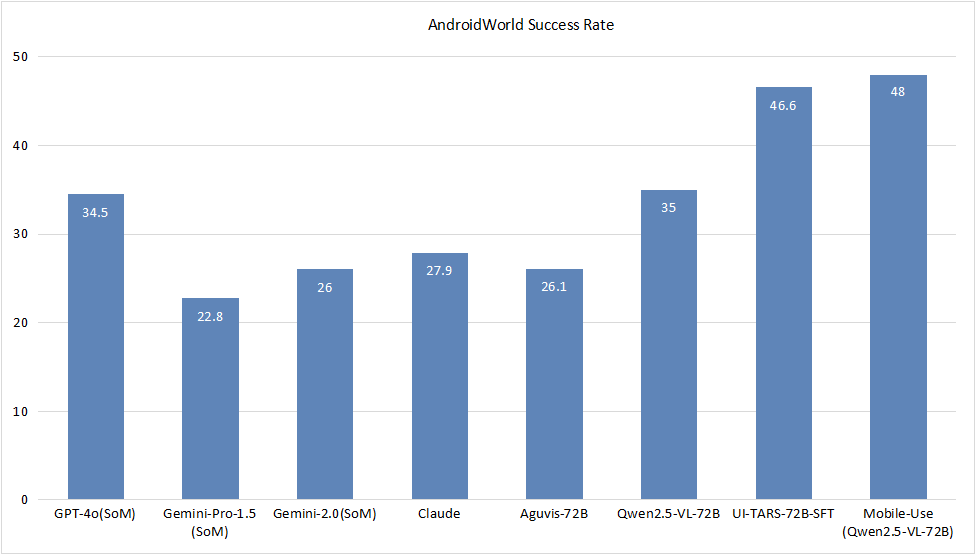
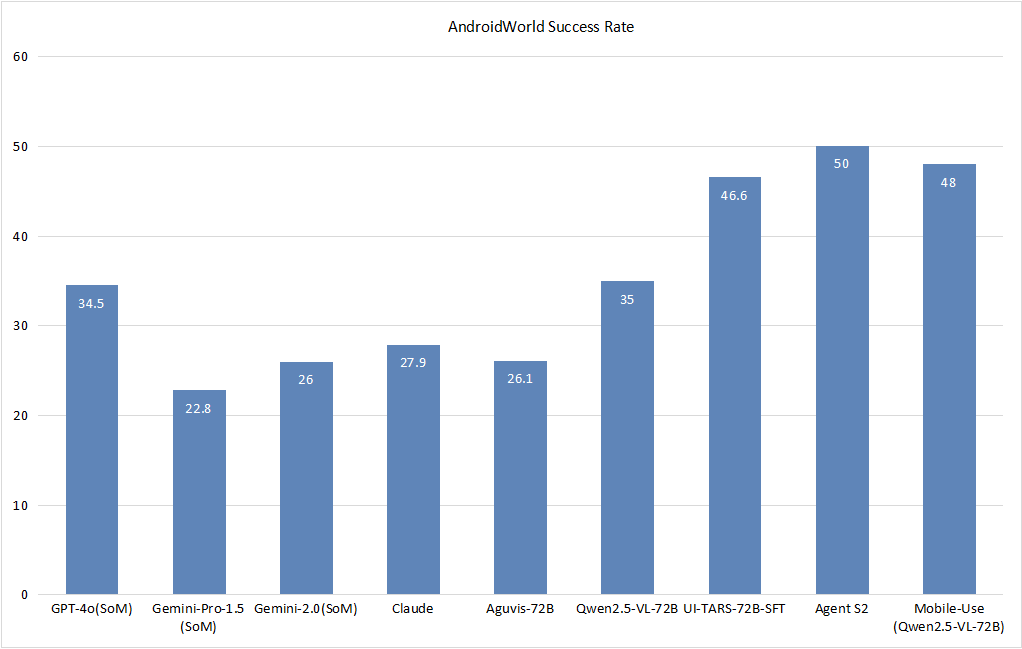
doc: Update Readme

diff --git a/README.md b/README.md
@@ -13,6 +13,11 @@ https://github.com/user-attachments/assets/c82ae51e-f0a2-4c7b-86e8-e3411d9749bb
 
 The user inputs the task description on the Web interface, and the Mobile Use automatically operates the mobile phone and completes the task.
 
+**⚠Special Reminder**: The actions are autonomously decided by the agent, which may involve uncontrollable operational risks. It is recommended to stay alert to your phone's status during the experience. If any operational risks arise, please terminate the task immediately or use a test phone to avoid issues caused by misoperations.
+
+## 🎉 News
+- **[2025/03/17]**: Mobile Use now supports the **multi-agent** framework! Equipped with planning, reflection, memorization and progress mechanisms, Mobile Use achieves impressive performance on AndroidWorld!
+- **[2025/03/04]**: Mobile Use is released! We have also released v0.1.0 of mobile-use library, providing you an AI assistant for mobile - Any app, any task!
 
 ## 📊 Benchmark
 ![](docs/assets/benchmark.png)

diff --git a/docs/README_zh.md b/docs/README_zh.md
@@ -13,6 +13,9 @@ https://github.com/user-attachments/assets/7cd023b6-816f-4514-93cc-62bcb1d888c5
 
 **⚠特别提醒**：操作动作由智能体自主决定，可能存在不可控的操作风险，建议体验是时刻关注手机动态如遇到操作风险及时终止任务或者使用测试手机进行体验，避免误操作带来问题。
 
+## 🎉 News
+- **[2025/03/17]**: MMobile Use 现在支持**多智能体**框架！配备了规划、反思、记忆和进展机制，Mobile Use 在 AndroidWorld 上实现了令人印象深刻的性能！
+- **[2025/03/04]**: Mobile Use 已发布！我们还发布了 mobile-use 库的 v0.1.0 版本，为您提供移动设备的 AI 助手——任何应用，任何任务！
 
 ## 📊 Benchmark
 ![](assets/benchmark.png)
